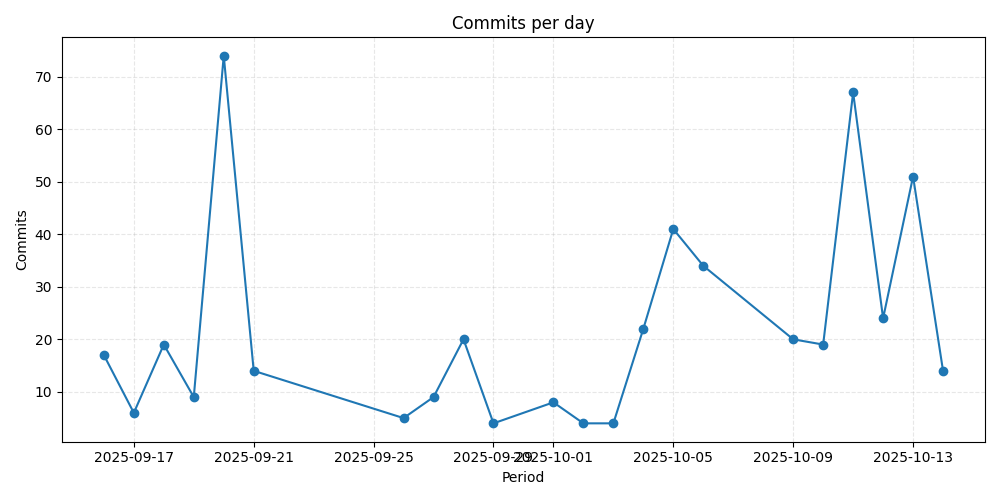
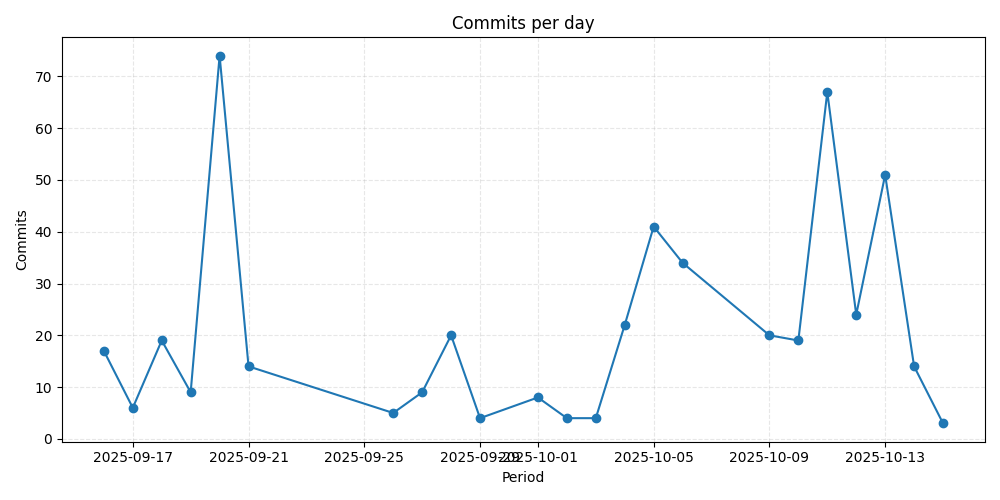
chore: refresh repository metrics

diff --git a/www/metrics/metrics.html b/www/metrics/metrics.html
@@ -6,7 +6,7 @@
 </head>
 <body>
 <h1>Repository metrics for <code>dsainz3/gate-hub</code></h1>
-<p><em>Generated 2025-10-15T06:19:20.084800+00:00Z</em></p>
+<p><em>Generated 2025-10-16T06:19:11.089299+00:00Z</em></p>
 <h2>Highlights</h2>
 <table>
 <thead>
@@ -20,9 +20,9 @@
 <tbody>
 <tr>
 <td>Commits</td>
-<td style="text-align: right;">1 (-92.3%)</td>
-<td style="text-align: right;">195 (+84.0%)</td>
-<td style="text-align: right;">485 (∞)</td>
+<td style="text-align: right;">1 (-91.7%)</td>
+<td style="text-align: right;">196 (+83.2%)</td>
+<td style="text-align: right;">488 (∞)</td>
 </tr>
 </tbody>
 </table>
@@ -35,7 +35,7 @@
 <ul>
 <li>Median time to merge: <code>0.00</code> days</li>
 <li>Average files changed per PR: <code>0.0</code></li>
-<li>Lines added vs deleted: <code>+728,794</code> / <code>-451,907</code></li>
+<li>Lines added vs deleted: <code>+728,854</code> / <code>-451,951</code></li>
 </ul>
 </body>
 </html>

diff --git a/www/metrics/summary.html b/www/metrics/summary.html
@@ -13,7 +13,7 @@
   </head>
   <body>
     <table>
-      <tr><th>Daily commits</th><td>1 (-92.3%)</td></tr><tr><th>Weekly commits</th><td>195 (+84.0%)</td></tr><tr><th>Monthly commits</th><td>485 (∞)</td></tr><tr><th>Median PR merge time</th><td>0.00 days</td></tr>
+      <tr><th>Daily commits</th><td>1 (-91.7%)</td></tr><tr><th>Weekly commits</th><td>196 (+83.2%)</td></tr><tr><th>Monthly commits</th><td>488 (∞)</td></tr><tr><th>Median PR merge time</th><td>0.00 days</td></tr>
     </table>
   </body>
 </html>

diff --git a/www/metrics/metrics.md b/www/metrics/metrics.md
@@ -1,12 +1,12 @@
 # Repository metrics for `dsainz3/gate-hub`
 
-_Generated 2025-10-15T06:19:20.084800+00:00Z_
+_Generated 2025-10-16T06:19:11.089299+00:00Z_
 
 ## Highlights
 
 | Metric | Daily | Weekly | Monthly |
 | --- | ---: | ---: | ---: |
-| Commits | 1 (-92.3%) | 195 (+84.0%) | 485 (∞) |
+| Commits | 1 (-91.7%) | 196 (+83.2%) | 488 (∞) |
 
 ## Charts
 
@@ -22,4 +22,4 @@ _Generated 2025-10-15T06:19:20.084800+00:00Z_
 
 * Median time to merge: `0.00` days
 * Average files changed per PR: `0.0`
-* Lines added vs deleted: `+728,794` / `-451,907`
+* Lines added vs deleted: `+728,854` / `-451,951`

diff --git a/README.md b/README.md
@@ -15,11 +15,11 @@
 
 <!-- METRICS:START -->
 ## Repository health snapshot
-_Updated 2025-10-15T06:19:20.084800+00:00Z_
+_Updated 2025-10-16T06:19:11.089299+00:00Z_
 
-- Daily commits: **1** (-92.3%)
-- Weekly commits: **195** (+84.0%)
-- Monthly commits: **485** (∞)
+- Daily commits: **1** (-91.7%)
+- Weekly commits: **196** (+83.2%)
+- Monthly commits: **488** (∞)
 - Median PR merge time: **0.00 days**
 <!-- METRICS:END -->
 
